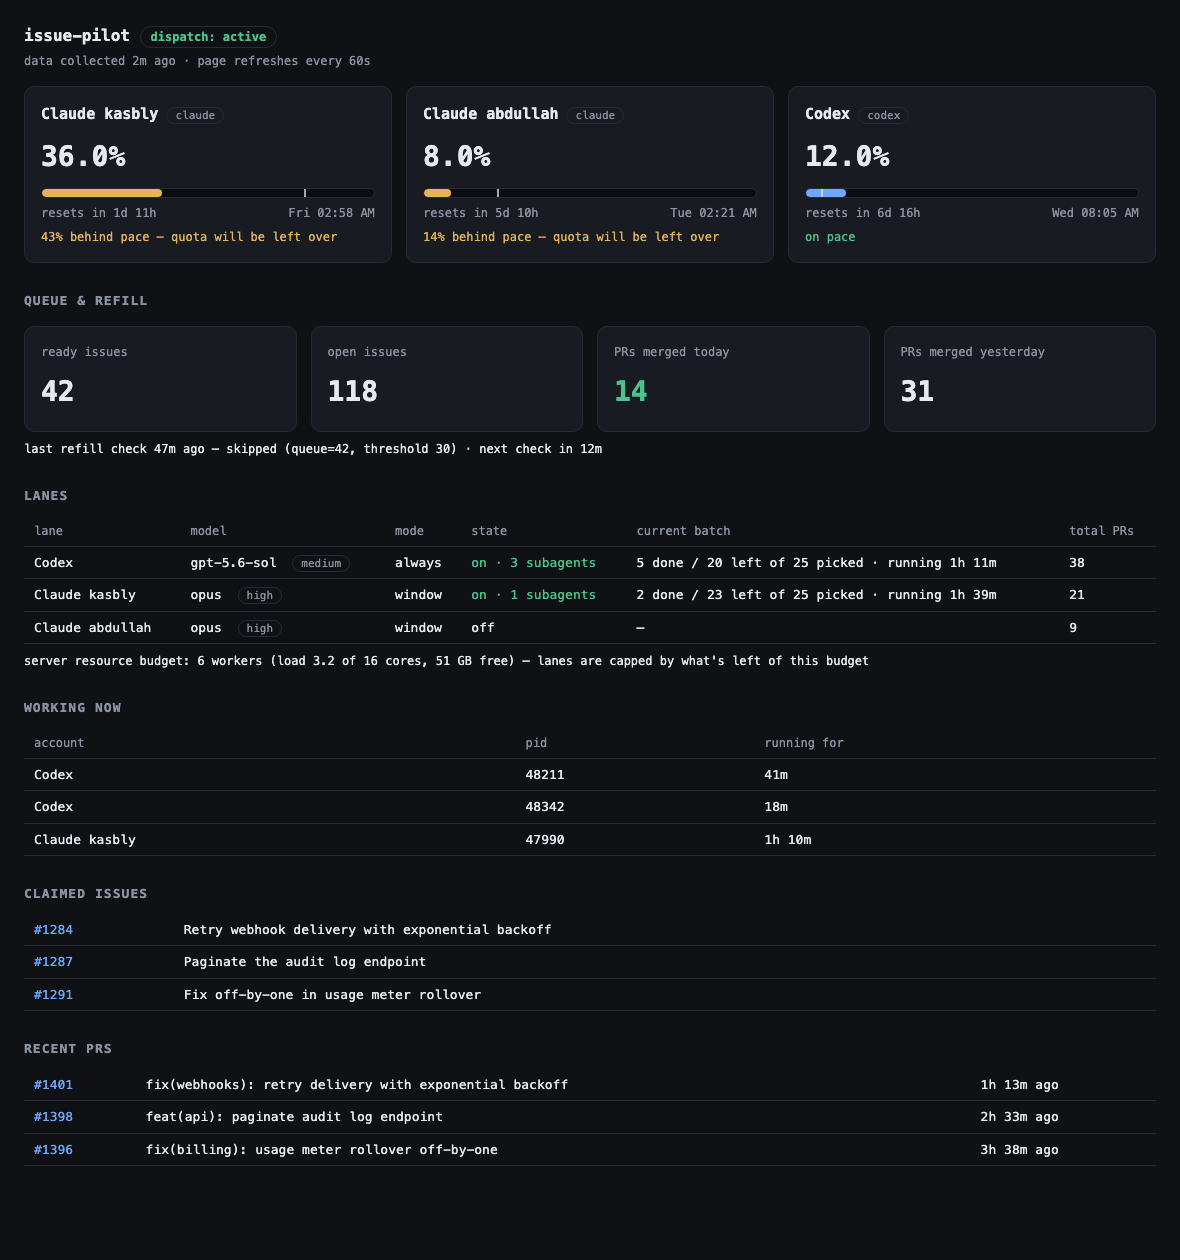
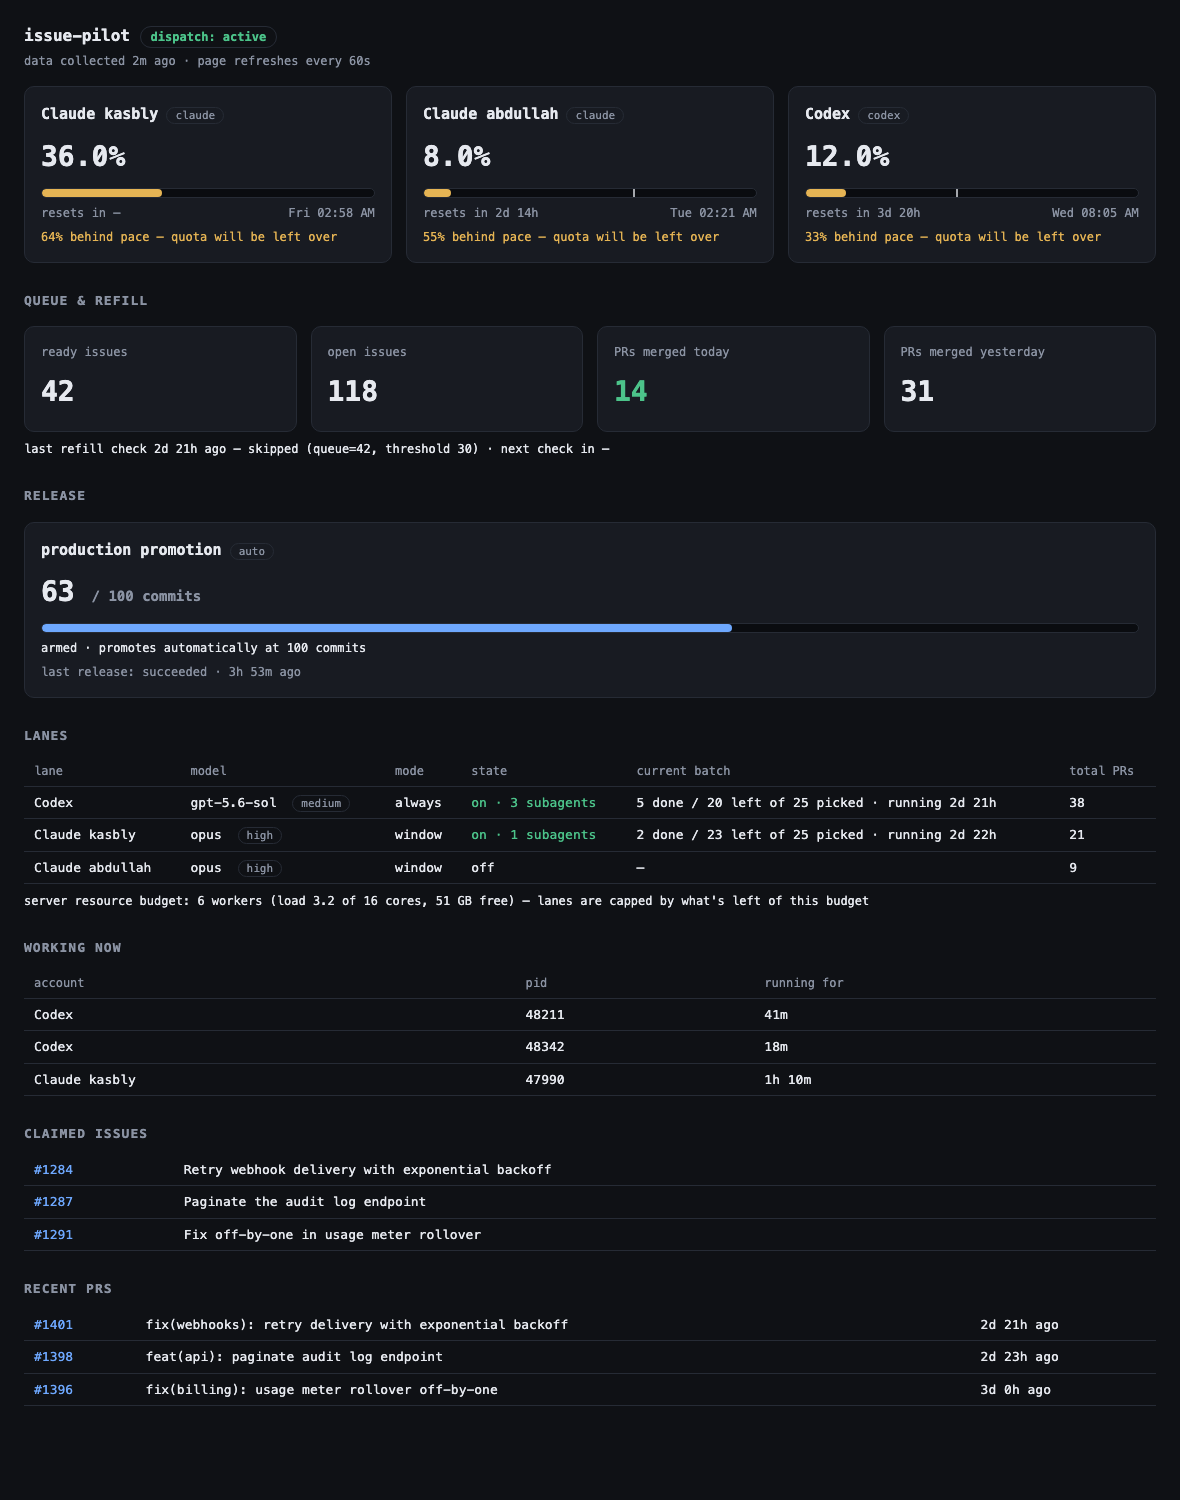
Release card in UI; README reflects automated verified-rounds promotion

diff --git a/web/index.html b/web/index.html
@@ -21,7 +21,7 @@
   .bar .pace { position:absolute; top:-3px; bottom:-3px; width:2px; background:var(--fg); opacity:.7; }
   .row { display:flex; justify-content:space-between; color:var(--dim); font-size:12px; }
   .drift { font-size:12px; margin-top:6px; }
-  .ok{color:var(--ok)} .warn{color:var(--warn)} .bad{color:var(--bad)}
+  .ok{color:var(--ok)} .warn{color:var(--warn)} .bad{color:var(--bad)} .dim{color:var(--dim)}
   table { width:100%; border-collapse:collapse; }
   td, th { text-align:left; padding:6px 10px; border-bottom:1px solid var(--line); font-size:13px; }
   th { color:var(--dim); font-weight:500; font-size:12px; }
@@ -36,6 +36,8 @@
 <h2>Queue &amp; refill</h2>
 <div class="cards" id="queue"></div>
 <div id="refill" class="drift" style="margin-top:8px"></div>
+<h2>Release</h2>
+<div class="cards" id="release"></div>
 <h2>Lanes</h2><div id="lanes"></div>
 <div id="resources" class="drift" style="margin-top:8px"></div>
 <h2>Working now</h2><div id="workers"></div>
@@ -96,13 +98,30 @@ async function refresh() {
   const lastR = r.last
     ? `last refill check ${fmtDur(now - r.last.ts)} ago — ${r.last.action === "ran" ? "scanner RAN" : "skipped"} (${esc(r.last.detail)}, threshold ${r.threshold})`
     : `no refill check recorded yet (threshold ${r.threshold ?? "?"})`;
-  const promo = s.promotion;
-  const promoTxt = !promo ? "" : promo.active
-    ? " · PROMOTION RUNNING"
-    : ` · promotion: ${promo.waiting}/${promo.threshold} commits waiting${promo.enabled ? "" : " (disabled)"}` +
-      (promo.last ? ` · last ${esc(promo.last.outcome)} ${fmtDur(now - promo.last.ts)} ago` : "");
   document.getElementById("refill").textContent =
-    lastR + (r.next_run ? ` · next check in ${fmtDur(r.next_run - now)}` : "") + promoTxt;
+    lastR + (r.next_run ? ` · next check in ${fmtDur(r.next_run - now)}` : "");
+
+  const promo = s.promotion;
+  document.getElementById("release").innerHTML = !promo ? "" : (() => {
+    const pctToGo = Math.min(100, 100 * promo.waiting / Math.max(promo.threshold, 1));
+    const state = promo.active
+      ? `<span class="ok">PROMOTING NOW — dev → staging → main</span>`
+      : promo.enabled
+        ? (promo.waiting >= promo.threshold
+            ? `<span class="warn">threshold reached — next hourly check promotes</span>`
+            : `armed · promotes automatically at ${promo.threshold} commits`)
+        : `<span class="dim">disabled — manual only (issue-pilot promote --now)</span>`;
+    const last = promo.last
+      ? `last release: ${esc(promo.last.outcome)} · ${fmtDur(now - promo.last.ts)} ago`
+      : "no release recorded yet";
+    return `<div class="card">
+      <span class="name">production promotion</span><span class="kind">${promo.enabled ? "auto" : "manual"}</span>
+      <div class="big">${promo.waiting} <span style="font-size:14px;color:var(--dim)">/ ${promo.threshold} commits</span></div>
+      <div class="bar"><div class="fill" style="width:${pctToGo}%; background:${promo.active ? "var(--ok)" : "var(--accent)"}"></div></div>
+      <div class="drift">${state}</div>
+      <div class="row" style="margin-top:6px"><span>${last}</span></div>
+    </div>`;
+  })();
 
   const lanes = s.lanes || [];
   document.getElementById("lanes").innerHTML = lanes.length

diff --git a/README.md b/README.md
@@ -140,9 +140,14 @@ commits sitting on `BASE_BRANCH` that haven't reached `STAGING_BRANCH`. Once
 production through PRs — `base → staging → prod`, merge commits only, one-way —
 **fixing CI as it goes** (repairs land on the base branch first, then get
 cherry-picked onto the frozen candidate). It verifies ancestry and deployment, then
-reports. Manual run: `issue-pilot promote --now`. Start manual for the first few
-releases; enable the timer once you trust the reports. If you can, reserve CI
-runners for promotion jobs so releases never queue behind the worker lanes.
+reports. The agent runs in **verified rounds**: sessions can't wait out CI, so the
+loop relaunches them until the release is *provably* complete (staging contained in
+prod, no promotion PR open, a promotion PR merged this run) — the agent's exit code
+is never trusted. The status page shows a Release card: commits waiting vs
+threshold, live PROMOTING state, and the last release outcome. Manual mode: leave
+`PROMOTE_ENABLED=false` and run `issue-pilot promote --now` yourself — recommended
+for your first release or two. If you can, reserve CI runners for promotion jobs
+(route on base = staging/main) so releases never queue behind the worker lanes.
 
 ## Status page
 
